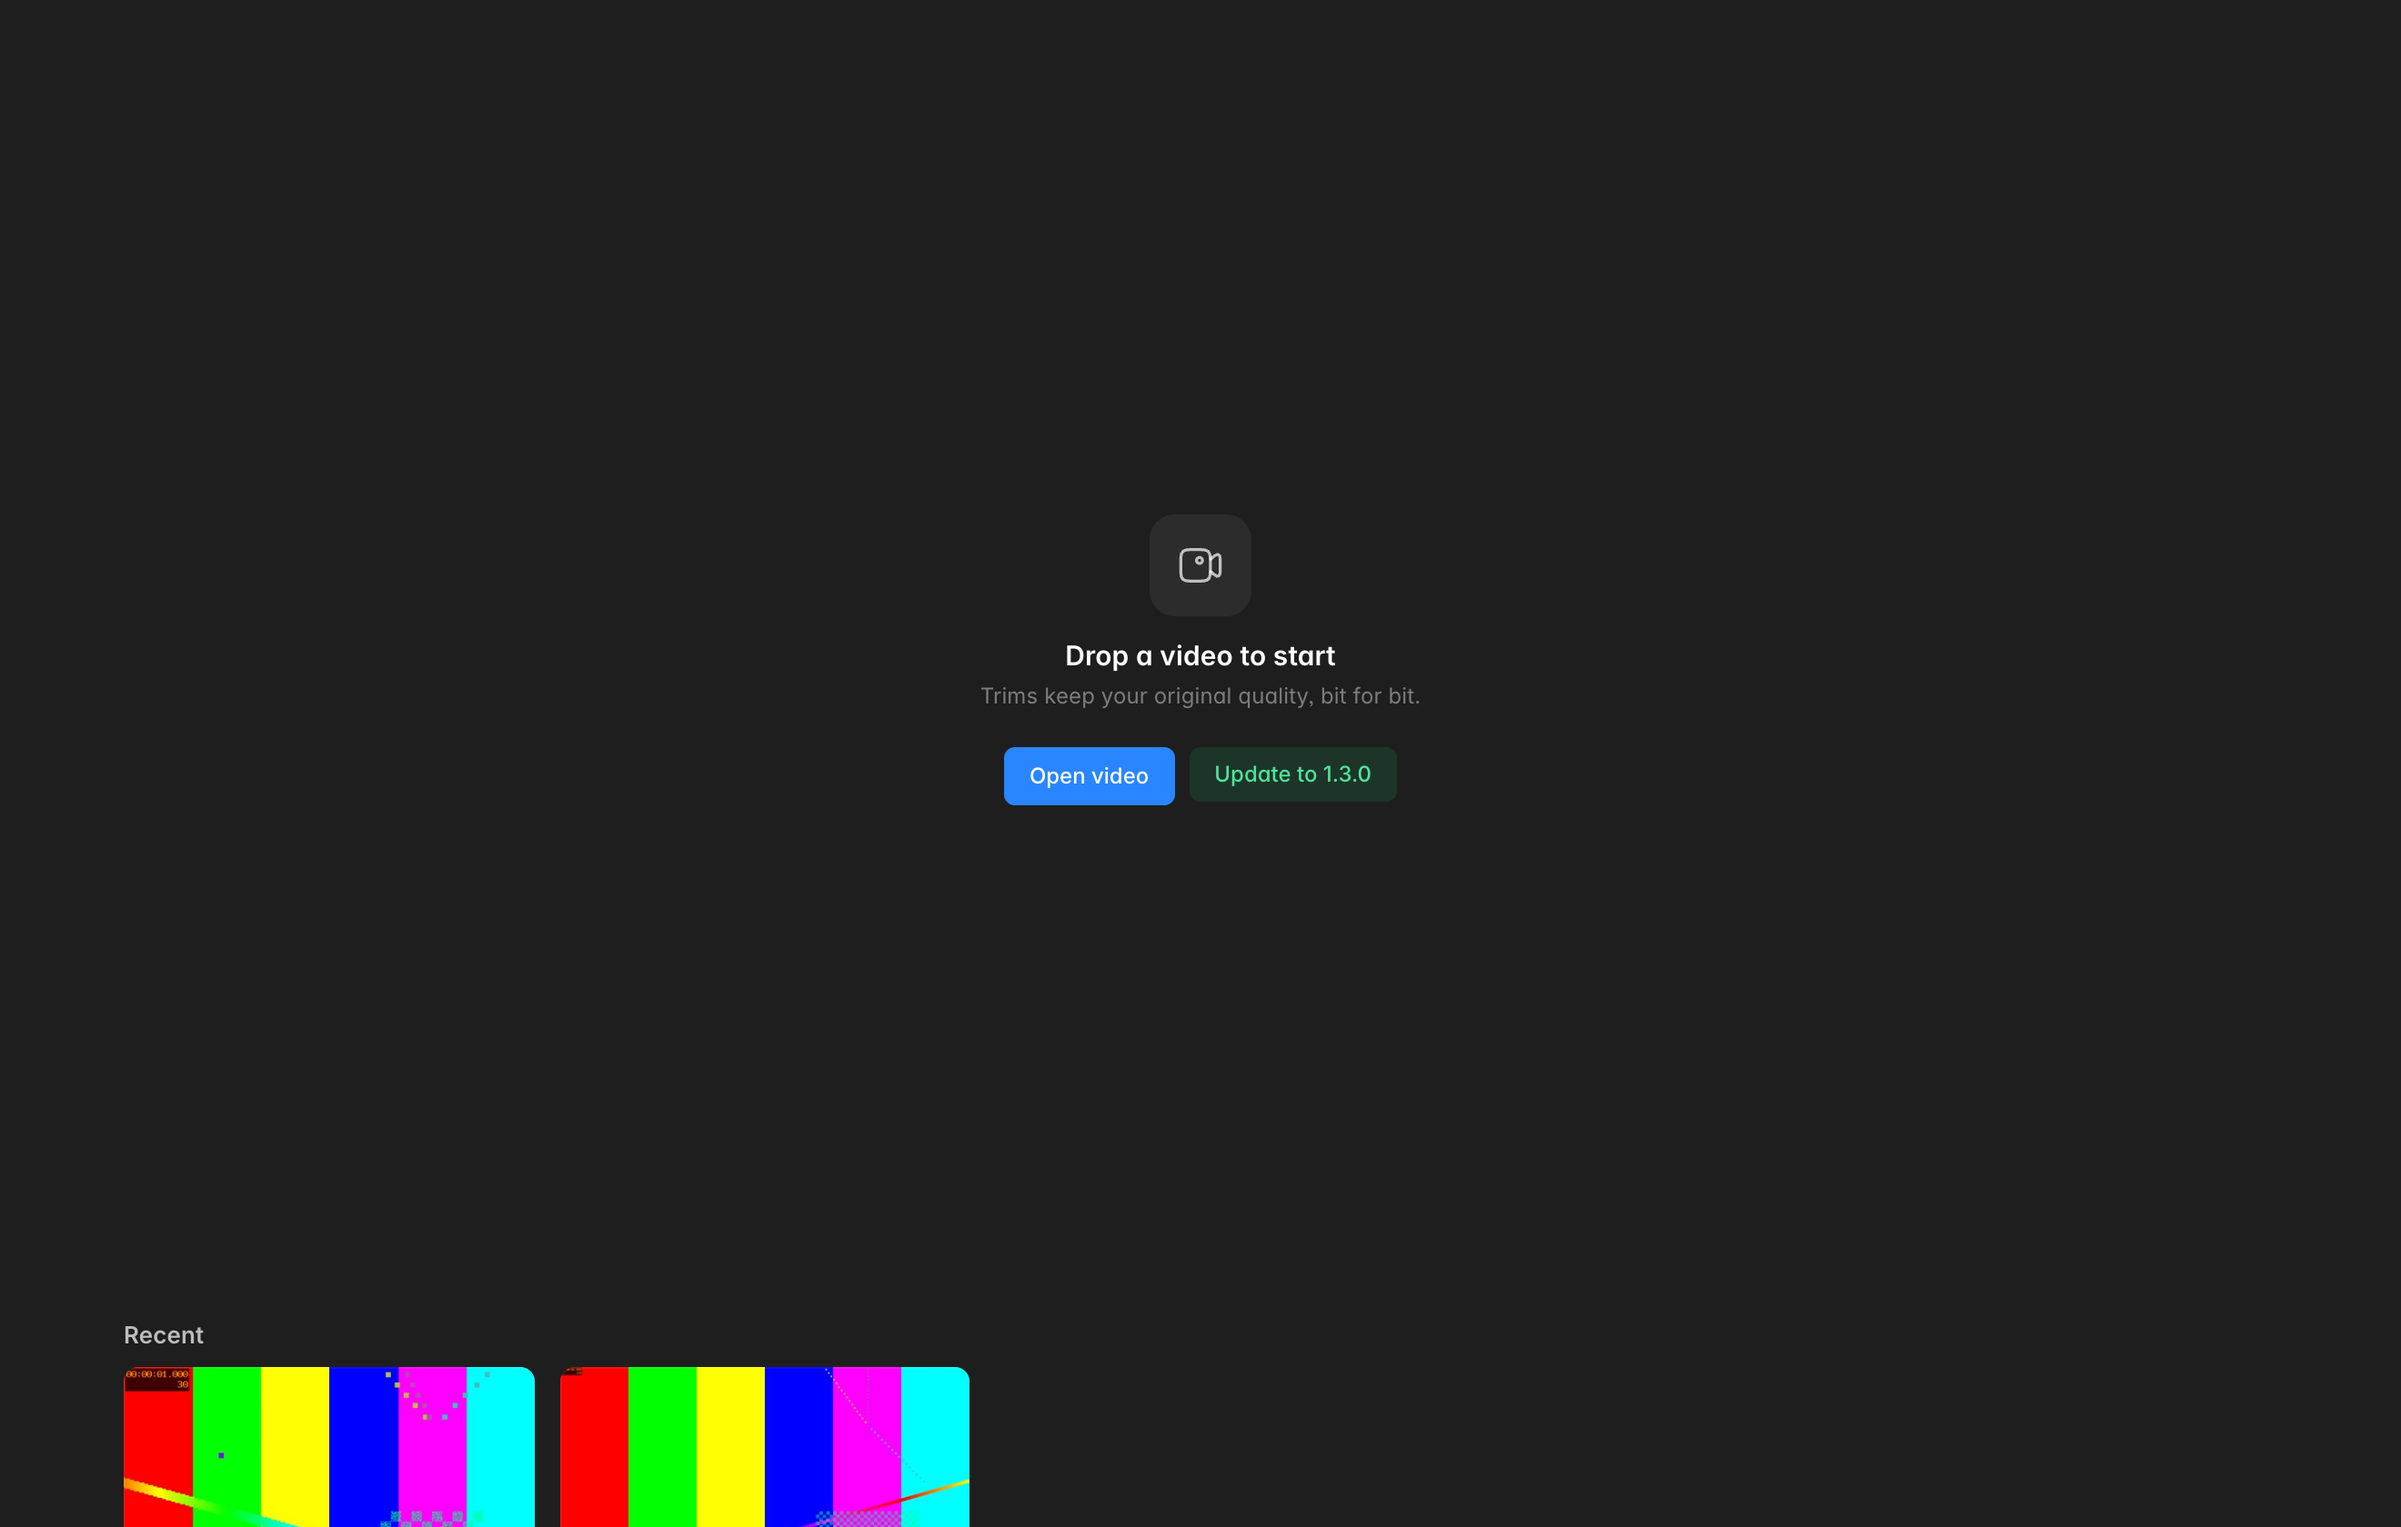
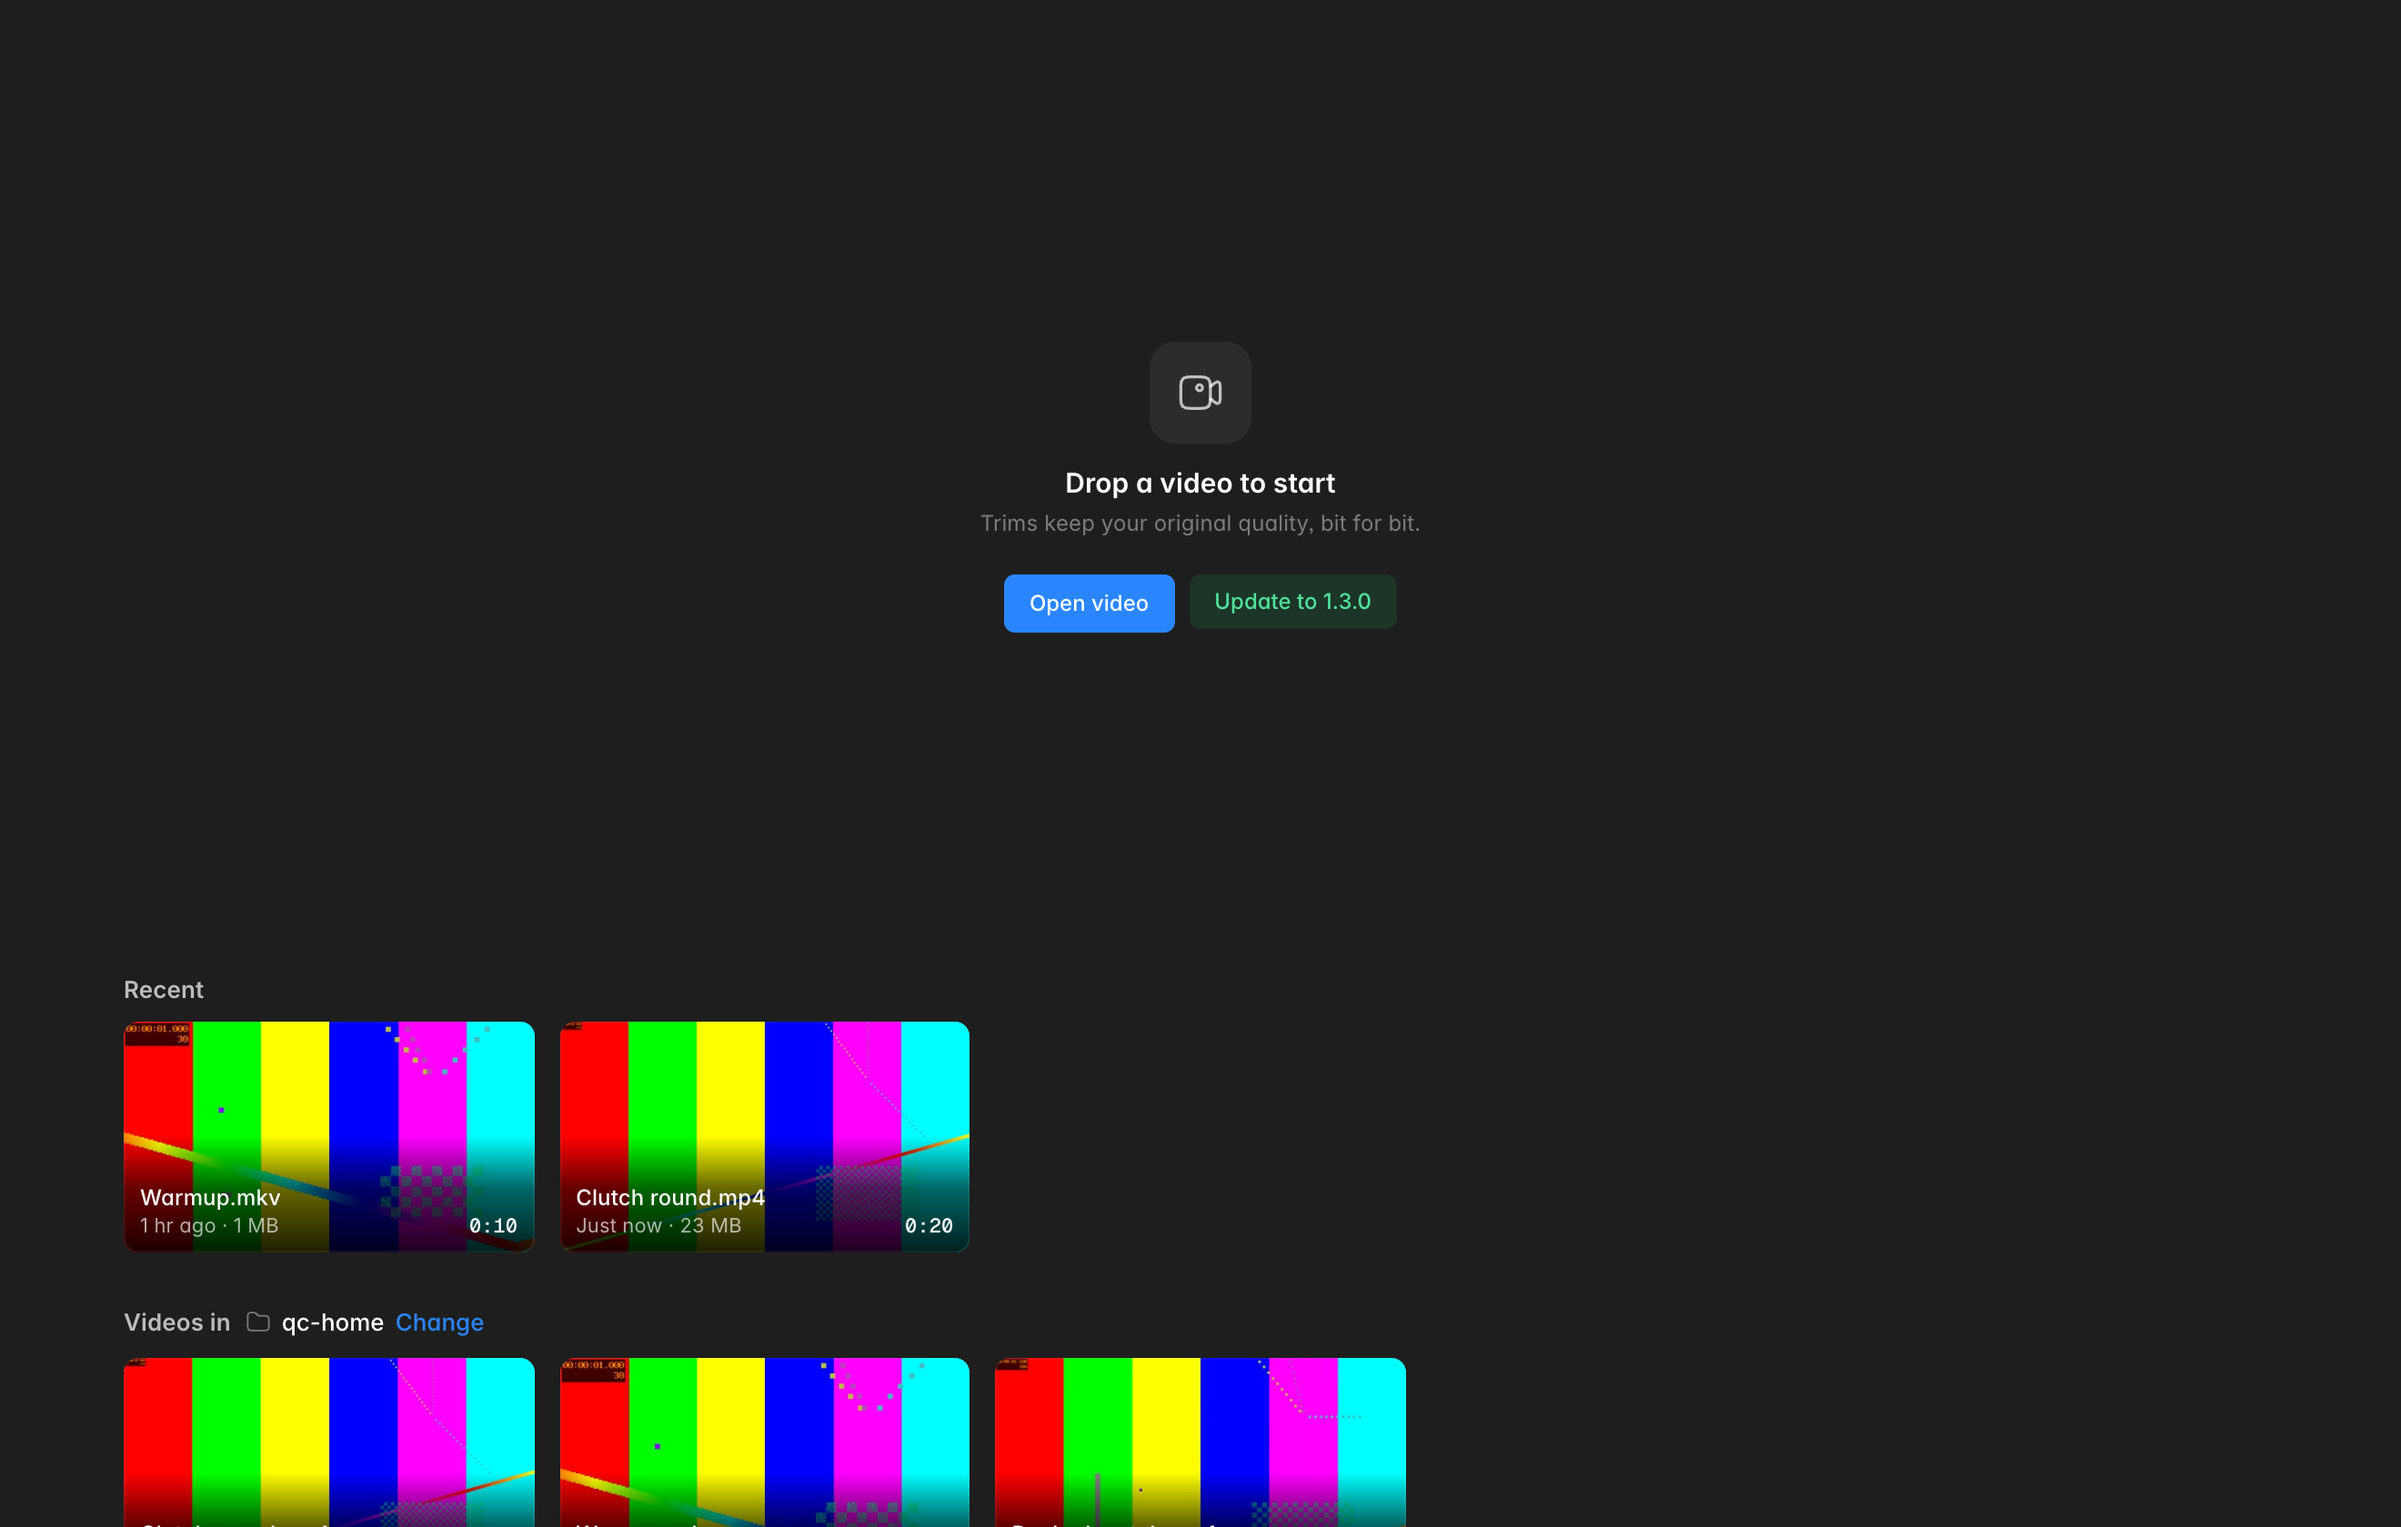
Release 1.3.1

diff --git a/src/style.css b/src/style.css
@@ -151,9 +151,9 @@ body.empty #stage { background: var(--canvas); }
 
 /* ---------- Home: recent videos + a folder of videos ---------- */
 .home { min-height: 100%; max-width: 1240px; margin: 0 auto; padding: 28px 28px 32px; display: flex; flex-direction: column; gap: 28px; }
-/* The release's empty screen, centered in the window; the video lists start just below
-   (their top peeks in, so it's clear there's more to scroll to) */
-.home-hero { min-height: calc(100vh - 170px); display: flex; flex-direction: column; align-items: center; justify-content: center; gap: 6px; }
+/* The release's empty screen in the upper part of the window, leaving room below for the
+   Recent heading and a full row of videos */
+.home-hero { min-height: max(300px, calc(100vh - 360px)); display: flex; flex-direction: column; align-items: center; justify-content: center; gap: 6px; }
 .home:not(:has(section:not([hidden]))) .home-hero { min-height: calc(100vh - 60px); } /* nothing below: true center */
 .home-hero-actions { display: flex; gap: 8px; }
 .home-hero-actions .btn { height: 32px; }
@@ -162,7 +162,7 @@ body.empty #stage { background: var(--canvas); }
 #home-folder-name { min-width: 0; overflow: hidden; text-overflow: ellipsis; white-space: nowrap; }
 .home-none { color: var(--text-3); padding: 18px 0; }
 .vgrid { display: grid; grid-template-columns: repeat(auto-fill, minmax(196px, 1fr)); gap: 16px 14px; }
-.vcard { position: relative; display: flex; flex-direction: column; gap: 6px; min-width: 0; padding: 0; border: none; background: none; text-align: left; cursor: pointer; border-radius: 8px; outline: none; }
+.vcard { position: relative; display: block; min-width: 0; padding: 0; border: none; background: none; text-align: left; cursor: pointer; border-radius: 8px; outline: none; }
 .vthumb { position: relative; aspect-ratio: 16 / 9; border-radius: 8px; overflow: hidden; background: var(--surface); display: grid; place-items: center; color: var(--text-3); }
 .vthumb > svg { width: 22px; height: 22px; opacity: 0.6; }
 .vthumb img { position: absolute; inset: 0; width: 100%; height: 100%; object-fit: cover; opacity: 0; transition: opacity 0.2s; }
@@ -170,10 +170,13 @@ body.empty #stage { background: var(--canvas); }
 .vthumb::after { content: ""; position: absolute; inset: 0; border-radius: 8px; box-shadow: inset 0 0 0 1px rgba(255, 255, 255, 0.06); pointer-events: none; transition: box-shadow 0.12s; }
 .vcard:hover .vthumb::after { box-shadow: inset 0 0 0 2px rgba(255, 255, 255, 0.35); }
 .vcard:focus-visible .vthumb::after { box-shadow: inset 0 0 0 2px var(--blue); }
-.vdur { position: absolute; right: 6px; bottom: 6px; padding: 1px 5px; border-radius: 4px; background: rgba(0, 0, 0, 0.72); color: #fff; font: 500 11px/16px var(--mono); font-variant-numeric: tabular-nums; }
+/* Bottom strip over the thumbnail: black fading up into the picture, with the name, date · size and length */
+.vinfo { position: absolute; left: 0; right: 0; bottom: 0; display: flex; align-items: flex-end; gap: 10px; padding: 26px 9px 7px; background: linear-gradient(to top, rgba(0, 0, 0, 0.88), rgba(0, 0, 0, 0.6) 55%, transparent); pointer-events: none; }
+.vtext { flex: 1; min-width: 0; }
+.vdur { flex-shrink: 0; color: #fff; font: 500 11px/16px var(--mono); font-variant-numeric: tabular-nums; }
 .vdur:empty { display: none; }
-.vname { font-weight: 500; font-size: 12px; white-space: nowrap; overflow: hidden; text-overflow: ellipsis; padding: 0 2px; }
-.vmeta { color: var(--text-3); font-size: 11px; margin-top: -4px; padding: 0 2px; white-space: nowrap; overflow: hidden; text-overflow: ellipsis; }
+.vname { color: #fff; font-weight: 500; font-size: 12px; line-height: 16px; white-space: nowrap; overflow: hidden; text-overflow: ellipsis; }
+.vmeta { color: rgba(255, 255, 255, 0.65); font-size: 11px; line-height: 15px; white-space: nowrap; overflow: hidden; text-overflow: ellipsis; }
 .vforget { position: absolute; top: 6px; right: 6px; width: 24px; height: 24px; border-radius: 6px; border: none; background: rgba(0, 0, 0, 0.6); color: #fff; display: grid; place-items: center; cursor: pointer; opacity: 0; transition: opacity 0.12s; }
 .vforget svg { width: 14px; height: 14px; }
 .vcard:hover .vforget, .vforget:focus-visible { opacity: 1; }

diff --git a/src/app.js b/src/app.js
@@ -2486,7 +2486,8 @@ function videoCard(v, { forget } = {}) {
   el.className = 'vcard';
   el.tabIndex = 0;
   el.title = v.path;
-  el.innerHTML = `<div class="vthumb">${icon('film')}<img alt="" draggable="false"><span class="vdur"></span></div><div class="vname"></div><div class="vmeta"></div>`;
+  // Name, date · size and length sit on a dark strip along the bottom of the thumbnail.
+  el.innerHTML = `<div class="vthumb">${icon('film')}<img alt="" draggable="false"><div class="vinfo"><div class="vtext"><div class="vname"></div><div class="vmeta"></div></div><span class="vdur"></span></div></div>`;
   el.querySelector('.vname').textContent = v.name;
   el.querySelector('.vmeta').textContent = `${ago(v.modified)} · ${fmtSize(v.size)}`;
   if (forget) {
